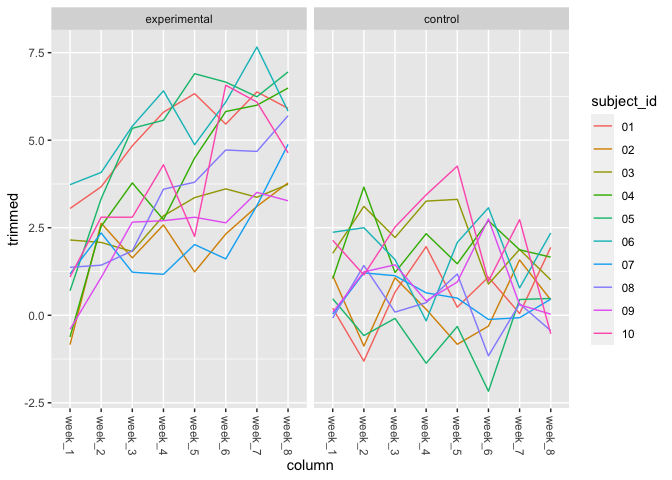
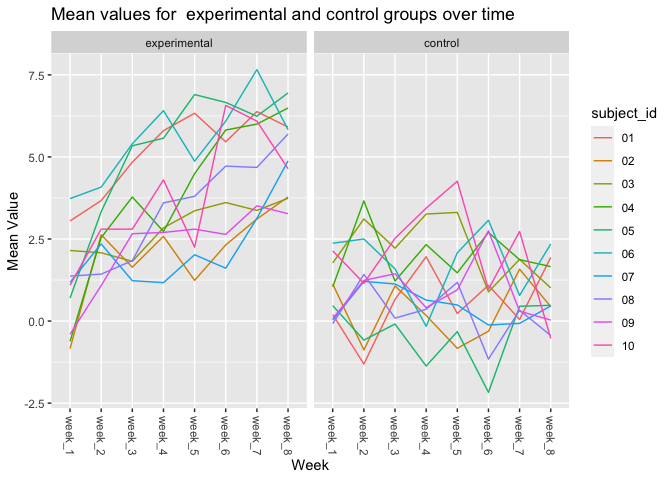
First draft of problem 2.

diff --git a/hw5.md b/hw5.md
@@ -317,7 +317,12 @@ view(df_files)
 Now, I will make a spaghetti plot of the data.
 
 ``` r
-ggplot(data = df_files, aes(x = column, y = trimmed, group = subject_id, color = subject_id)) + geom_line() + facet_grid(.~arm) +  theme(axis.text.x = element_text(angle = 270, vjust= 0.5, hjust = 1))
+ggplot(data = df_files, aes(x = column, y = mean, group = subject_id, color = subject_id)) + geom_line() + facet_grid(.~arm) +
+  labs(
+    title = "Mean values for  experimental and control groups over time",
+    x = "Week",
+    y = "Mean Value"
+  ) + theme(axis.text.x = element_text(angle = 270, vjust= 0.5, hjust = 1))
 ```
 
 ![](hw5_files/figure-gfm/unnamed-chunk-9-1.png)<!-- --> Overall, the
